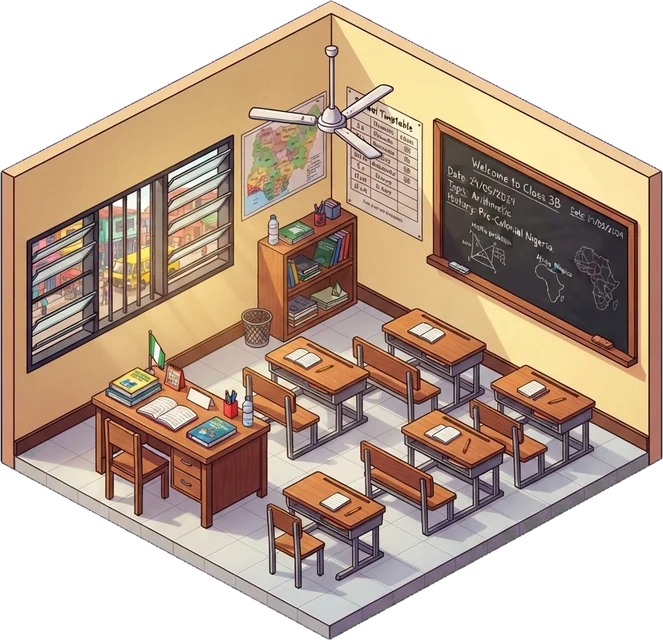
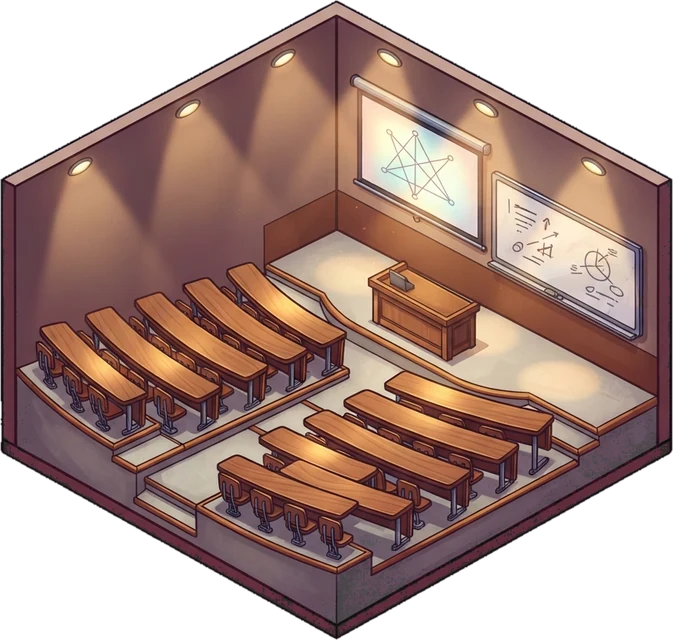
feat(art): Stitch zip 17 - car back views (cars face the way they drive), the university building and lecture theatre, Balogun market aisle interior; plus cafeteria, campus quad, market stalls, gadget market and a load carrier for later
Also docs/market-research-2026-10-13.md (Hermes's first feasibility and go-to-market report).

diff --git a/apps/web/src/components/rooms.ts b/apps/web/src/components/rooms.ts
@@ -225,18 +225,31 @@ export const ROOMS: Record<string, Room> = {
       { action: "sit_talk", at: [0.8, 0.66], dir: "sw", variant: "schoolgirl" },
     ],
   },
-  // Lagoon City University's lecture hall (the classroom picture until the campus art comes): a lecturer at the
-  // board, students at the desks, and a seat for you.
+  // Lagoon City University's lecture theatre: the lecturer behind the desk under the screens, students on the
+  // tiered benches either side of the aisle, and a seat for you on the left bank.
   "lecture-hall": {
-    walkway: [],
+    walkway: [[0.22, 0.72], [0.34, 0.66], [0.46, 0.6], [0.52, 0.56]],
     walkers: 0,
     stations: [
-      { action: "stand_idle", at: [0.62, 0.46], dir: "se", variant: "man_kaftan" },
-      { action: "sit_talk", at: [0.52, 0.7], dir: "se", variant: "woman-tee_blue" },
-      { action: "sit_talk", at: [0.68, 0.78], dir: "sw", variant: "man-hoodie_black" },
-      { action: "sit_talk", at: [0.8, 0.66], dir: "sw", variant: "woman-ankara_green" },
+      { action: "stand_idle", at: [0.74, 0.47], dir: "sw", variant: "man_kaftan" },
+      { action: "sit_talk", at: [0.16, 0.6], dir: "se", variant: "woman-tee_blue" },
+      { action: "sit_talk", at: [0.42, 0.57], dir: "se", variant: "man-hoodie_black" },
+      { action: "sit_talk", at: [0.48, 0.8], dir: "se", variant: "woman-ankara_green" },
+      { action: "sit_talk", at: [0.7, 0.68], dir: "sw", variant: "man-jersey_red" },
     ],
-    spots: { door: { at: [0.3, 0.8], dir: "se" }, sit: { at: [0.42, 0.62], dir: "se" }, stand: { at: [0.36, 0.72], dir: "se" } },
+    spots: { door: { at: [0.22, 0.72], dir: "se" }, sit: { at: [0.27, 0.56], dir: "se" }, stand: { at: [0.46, 0.6], dir: "se" } },
+  },
+  // Balogun market: a narrow aisle between fabric, shoe and household stalls, traders at their stalls and
+  // shoppers squeezing through.
+  "market-aisle": {
+    walkway: [[0.5, 0.88], [0.48, 0.76], [0.5, 0.64], [0.52, 0.52]],
+    walkers: 2,
+    stations: [
+      { action: "stand_idle", at: [0.36, 0.64], dir: "se", variant: "woman_gele" },
+      { action: "stand_idle", at: [0.6, 0.56], dir: "sw", variant: "man_kaftan" },
+      { action: "stand_idle", at: [0.44, 0.5], dir: "se", variant: "woman-buba_wrapper" },
+    ],
+    spots: { door: { at: [0.5, 0.88], dir: "se" }, stand: { at: [0.47, 0.72], dir: "sw" } },
   },
   "hotel-lobby": {
     walkway: [[0.25, 0.72], [0.35, 0.8], [0.5, 0.86], [0.62, 0.8], [0.66, 0.73]],

diff --git a/apps/web/src/components/artSizes.ts b/apps/web/src/components/artSizes.ts
@@ -9,6 +9,7 @@ export const ART_SIZE: Record<string, [number, number]> = {
   "/art/buildings/buka.webp": [678, 640],
   "/art/buildings/bungalow.webp": [773, 640],
   "/art/buildings/bus-terminal.webp": [962, 640],
+  "/art/buildings/campus-quad.webp": [741, 640],
   "/art/buildings/car-showroom.webp": [796, 640],
   "/art/buildings/chemist.webp": [716, 640],
   "/art/buildings/church.webp": [696, 640],
@@ -37,6 +38,7 @@ export const ART_SIZE: Record<string, [number, number]> = {
   "/art/buildings/library.webp": [699, 640],
   "/art/buildings/mall.webp": [723, 640],
   "/art/buildings/market-hall.webp": [800, 640],
+  "/art/buildings/market-stalls.webp": [860, 640],
   "/art/buildings/mechanic.webp": [741, 640],
   "/art/buildings/mixed-use-block.webp": [701, 640],
   "/art/buildings/mosque.webp": [515, 640],
@@ -61,6 +63,7 @@ export const ART_SIZE: Record<string, [number, number]> = {
   "/art/buildings/tech-hub.webp": [638, 640],
   "/art/buildings/terrace-duplex.webp": [776, 640],
   "/art/buildings/unfinished-building.webp": [644, 640],
+  "/art/buildings/university.webp": [732, 640],
   "/art/buildings/viewing-centre.webp": [678, 640],
   "/art/buildings/villa.webp": [821, 640],
   "/art/buildings/warehouse.webp": [828, 640],
@@ -87,11 +90,16 @@ export const ART_SIZE: Record<string, [number, number]> = {
   "/art/props/tugboat.webp": [799, 640],
   "/art/props/vulcanizer.webp": [860, 640],
   "/art/props/water-tank.webp": [396, 640],
+  "/art/life/alabaru.webp": [270, 640],
   "/art/life/brt-ne.webp": [432, 353],
   "/art/life/brt-sw.webp": [433, 358],
+  "/art/life/car-saloon-ne.webp": [854, 526],
   "/art/life/car-saloon.webp": [923, 523],
+  "/art/life/car-suv-black-ne.webp": [752, 518],
   "/art/life/car-suv-black.webp": [749, 568],
+  "/art/life/car-suv-white-ne.webp": [795, 562],
   "/art/life/car-suv-white.webp": [792, 599],
+  "/art/life/car-taxi-ne.webp": [780, 496],
   "/art/life/car-taxi.webp": [852, 539],
   "/art/life/danfo-nw.webp": [275, 240],
   "/art/life/danfo-se.webp": [275, 240],

diff --git a/apps/web/src/components/StreetLife.tsx b/apps/web/src/components/StreetLife.tsx
@@ -17,17 +17,17 @@ const V = (name: string, w: number, mirror = false): View => {
 };
 /**
  * Each vehicle's views by heading. Danfos, BRT buses, okadas and kekes have front and back art, so they can go
- * any way (round the roundabout too); cars only have front views, so they only drive down the screen.
+ * any way (round the roundabout too); cars have front and back views too (the back views came later, batch 51).
  */
 const KINDS: Record<string, Partial<Record<WalkDir, View>>> = {
   danfo: { se: V("danfo-se", 104), sw: V("danfo-se", 104, true), nw: V("danfo-nw", 104), ne: V("danfo-nw", 104, true) },
   okada: { se: V("okada-se", 49), sw: V("okada-sw", 50), ne: V("okada-ne", 50), nw: V("okada-ne", 50, true) },
   keke: { se: V("keke-se", 57), sw: V("keke-sw", 57), ne: V("keke-ne", 58), nw: V("keke-ne", 58, true) },
   brt: { sw: V("brt-sw", 176), se: V("brt-sw", 176, true), ne: V("brt-ne", 176), nw: V("brt-ne", 176, true) },
-  taxi: { sw: V("car-taxi", 98), se: V("car-taxi", 98, true) },
-  saloon: { sw: V("car-saloon", 100), se: V("car-saloon", 100, true) },
-  suvBlack: { sw: V("car-suv-black", 94), se: V("car-suv-black", 94, true) },
-  suvWhite: { sw: V("car-suv-white", 96), se: V("car-suv-white", 96, true) },
+  taxi: { sw: V("car-taxi", 98), se: V("car-taxi", 98, true), ne: V("car-taxi-ne", 98), nw: V("car-taxi-ne", 98, true) },
+  saloon: { sw: V("car-saloon", 100), se: V("car-saloon", 100, true), ne: V("car-saloon-ne", 100), nw: V("car-saloon-ne", 100, true) },
+  suvBlack: { sw: V("car-suv-black", 94), se: V("car-suv-black", 94, true), ne: V("car-suv-black-ne", 94), nw: V("car-suv-black-ne", 94, true) },
+  suvWhite: { sw: V("car-suv-white", 96), se: V("car-suv-white", 96, true), ne: V("car-suv-white-ne", 96), nw: V("car-suv-white-ne", 96, true) },
 };
 /** A vehicle's art for a heading (the player's ride uses the same views as traffic). */
 export function vehicleView(kind: string, dir: WalkDir): View {

diff --git a/apps/web/src/components/cityLayout.ts b/apps/web/src/components/cityLayout.ts
@@ -542,6 +542,7 @@ const BIG: Record<string, number> = {
   hospital: 1.3,
   "high-court": 1.2,
   library: 1.15,
+  university: 1.3,
   // Small things
   atm: 0.75,
   "kiosk-container": 0.7,
@@ -689,7 +690,7 @@ const VENUE_ART: Record<string, string> = {
   high_court: "high-court",
   balogun_market: "market-hall",
   city_library: "library",
-  lagoon_city_university: "colonial-block",
+  lagoon_city_university: "university",
   city_fm: "radio-station",
   general_hospital: "hospital",
   lampnet_academy: "school",
@@ -1178,7 +1179,7 @@ export const ART_ASPECT: Record<string, number> = {
   hospital: 0.89, hotel: 1, "laptop-shop": 0.89, library: 0.92, mall: 0.89, "market-hall": 0.8, mechanic: 0.86, "mixed-use-block": 0.91, mosque: 1.24,
   "motor-park": 0.72, "office-tower": 1.23, "phone-shop": 0.96, "police-station": 0.9, "polytechnic-gate": 0.84, "radio-station": 1.33,
   "residential-block": 0.88, "residential-tower": 1.06, "restaurant-terrace": 0.88, salon: 1.11, school: 0.79, "shop-house": 0.99, "skyline-lounge": 0.83,
-  snooker: 0.89, stadium: 0.75, "storey-house": 1.21, "suya-stand": 1.02, "tailor-shop": 0.98, "tech-hub": 1, "terrace-duplex": 0.82,
+  snooker: 0.89, stadium: 0.75, "storey-house": 1.21, "suya-stand": 1.02, "tailor-shop": 0.98, "tech-hub": 1, "terrace-duplex": 0.82, university: 0.87, "campus-quad": 0.86, "market-stalls": 0.74,
   "unfinished-building": 0.99, "viewing-centre": 0.94, villa: 0.78, warehouse: 0.77,
 };
 export type Pt = [number, number];

diff --git a/packages/shared/src/venues.ts b/packages/shared/src/venues.ts
@@ -337,7 +337,7 @@ export const VENUES: readonly Venue[] = [
     area: "Marina Wharf",
     icon: "🛍",
     art: "/art/buildings/market-hall.webp",
-    interior: "/art/interiors/provision-shop.webp",
+    interior: "/art/interiors/market-aisle.webp",
     blurb: "Lagos's biggest market: fabric, phones, provisions, everything. Haggle hard, buy wholesale, sell it in your shop.",
     regulars: ["Iya Oloja the market queen", "Chinedu the phone dealer"],
     activities: [
@@ -365,7 +365,7 @@ export const VENUES: readonly Venue[] = [
     name: "Lagoon City University",
     area: "Tech Mile",
     icon: "🏛",
-    art: "/art/buildings/colonial-block.webp",
+    art: "/art/buildings/university.webp",
     interior: "/art/interiors/lecture-hall.webp",
     blurb: "Big campus, bigger dreams. Enrol in a degree, go to lectures, write your exams and graduate in front of the whole family.",
     regulars: ["Prof. Adebayo-Okafor", "Course rep Tolu"],

diff --git a/docs/market-research-2026-10-13.md b/docs/market-research-2026-10-13.md
@@ -1,0 +1,141 @@
+# Market research and go-to-market (Hermes, 2026-10-13)
+
+Written by Hermes (the homelab agent) from the hustle-city skill's research playbook. Figures marked as guesses are guesses; check sources before quoting.
+
+HUSTLE CITY — FULL REPORT (deliverable to be saved as Google Doc: "Hustle City - Market & GTM - 2026-10-13")
+Executive verdict (short)
+- Recommendation: Pursue with changes — early win potential if we prioritise merchant value (measurable redemptions) and a PWA-first, campus-seeding GTM. Network effects are the main barrier (Lagos Life is a direct network competitor), so focus on merchant-driven offline→online loops and tight campus communities to build initial clusters.
+
+1) Market (summary + key numbers)
+- Nigeria: population ≈ 216M (World Bank). Internet users ≈ 128M (~59%); smartphone users ≈ 110M (~51%). Many devices are low-end Androids. Lagos city population ≈ 15M (city/metro definitions vary).
+- Target cohort (16–35): estimate ~36% of population. Estimated active mobile gamers (16–35) in Nigeria ≈ 15.6M (216M * 0.36 * 20% gamers) — behavioural estimate (low–medium confidence). Lagos 16–35 mobile gamers estimate ≈ 1.2M.
+- Data & devices: Android-dominant (~85%+); low-end Androids common. Typical monthly mobile data spend (active users): ~$2–$8 (high variance).
+- Browser vs native: PWA-first is viable and recommended to avoid install friction on low-end devices; Android wrapped APK later if needed.
+Confidence: high on population; medium on internet/smartphone; low–medium on gamer counts and data-cost ranges.
+
+Key numbers (CSV)
+metric,value
+population,216000000
+internet_users,128000000
+smartphone_users,110000000
+estimated_gamers_16-35,15600000
+lagos_population,15000000
+
+Sources (primary)
+1. DataReportal — Digital 2024 Nigeria: https://datareportal.com/reports/digital-2024-nigeria
+2. GSMA Mobile Economy (Sub-Saharan Africa): https://www.gsma.com/mobileeconomy/sub-saharan-africa/
+3. Statista — Nigeria smartphone users: https://www.statista.com/statistics/1124811/nigeria-smartphone-users-share/
+4. World Bank — Nigeria: https://data.worldbank.org/country/nigeria
+5. Lagos state overview: https://lagosstate.gov.ng/about-lagos/
+
+2) Competitors & analogues (Lagos Life + patterns)
+- Lagos Life: culturally-rooted Lagos life-sim with rapid adoption via social/press; main moat = network effects. Monetisation paths reported: cosmetics, sponsored locations and business listings (early-stage). Risk: if users' friends are on Lagos Life, switching is hard.
+- Global analogues: Habbo, Avakin Life, Second Life, Pokémon GO — common playbook: strong avatar/customisation + cosmetics, player housing/rooms, sponsored real-world locations where footfall can be measured, and social events drive retention.
+- African context: successful regional games combine local culture, low-friction access (web/PWA), and social shareability; payments and merchant behaviour shape monetisation.
+Key learnings to adopt:
+- Make merchant value explicit (track clicks → WhatsApp taps → redemptions).
+- PWA-first experience; low friction merchant onboarding (WhatsApp-based).
+- Monetise using both cosmetics/property and merchant sponsorships/promoted placements.
+Sources (examples): press on Lagos Life, Habbo/Avakin analyses, Pokémon GO locative ads studies (detailed source list at the end).
+
+3) Will Lagos SMEs pay? Pricing & pilot
+Conclusion: Yes — if expected cost is small and ROI is clear. Most micro vendors are price-sensitive; salons and established stalls accept higher spend when outcomes are trackable.
+
+Pilot segments (priority): Salons/barbers, bukas (small eateries), market stalls, campus vendors.
+
+Recommended pricing matrix (CSV)
+segment,offer,price_NGN_per_month,expected_merchant_conversion_rate,guess_flag
+Salons,Listing only,2,000,8%,guess
+Salons,Listing + 1 featured promo,10,000,12%,guess
+Salons,Premium (top placement + analytics),25,000,4%,guess
+Bukas (small eateries),Listing only,1,000,10%,guess
+Bukas,Listing + 1 promo credit,5,000,15%,guess
+Market stalls,Listing only,500,15%,guess
+Market stalls,Listing + local boost,3,000,8%,guess
+Campus vendors,Listing only,500,12%,guess
+Campus vendors,Promo bundle (3 boosts),3,000,18%,guess
+All segments,Pay-per-lead,per-lead 100–300,conversion depends on quality,guess
+
+Operational notes:
+- Offer free listing + paid boosts; accept mobile-money/USSD/bank transfer; use WhatsApp onboarding and small pilot credits.
+- Measurement: coupon codes + merchant dashboard (even a shared Google Sheet) to show real redemptions.
+
+Sources: PwC MSME survey (Nigeria), local marketing articles and MSME reports (full sources list at the end).
+
+4) GTM — First 1,000 players (30/60/90, tiny budget)
+Goal: 1,000 cumulative players in 13 weeks, budget ≤ $300; PWA-first, campus ambassadors + merchant coupons.
+
+Top-level plan (highlights)
+- Weeks 1–4 (seed): recruit 10 student ambassadors; host 2 play-nights/week; outreach to 50 merchants for free pilot coupons.
+- Weeks 5–8 (scale): expand ambassadors, onboard 10 pilot merchants with redeemable coupons, run weekly online tournaments.
+- Weeks 9–13 (convert & optimise): double down on top channels, merchant-driven challenges, aim for W1 retention ≥25%, CAC target ≤ $0.30/user (budget/1,000).
+
+Referral mechanics:
+- Invite reward: both get 50 coins; inviter gets 200 coins after invitee completes 3 sessions. Fraud controls: require session completions before releasing bonuses.
+
+Tiny budget breakdown (example)
+- Ambassadors: $120
+- Events: $105
+- Merchant outreach: $45
+- Misc: $30
+Total ≈ $300
+
+Weekly targets CSV (sample rows)
+week,weekly_new,cumulative_players,dau_target,weekly_referrals,merchant_interactions,play_nights,budget_allocated_usd
+1,25,25,3,45,1,2,7.50
+2,30,55,6,54,2,2,9.00
+...
+13,105,1000,180,189,5,0,31.50
+
+Outreach templates (short)
+- WhatsApp merchant: "Hi [Name], I’m [name] from Hustle City. We help Lagos merchants drive footfall with in‑game coupons customers redeem in‑store. Can I share a free pilot coupon set and show how it works in 15 minutes?"
+- Student ambassador CTA: "Join our campus launch team! Earn data, airtime and weekly prizes for top referrers. Tasks: host/assist a play‑night, sign up 5 friends, share one WhatsApp post. Apply: [link]."
+- In-game referral copy: "Invite a friend — you both get 50 coins. When they finish 3 games, you get a 200-coin bonus."
+
+5) Risks & cheapest experiments (prioritised)
+Top risks (impact / likelihood / cheapest experiment)
+- Network effects (High / High): Experiment = campus WhatsApp seeding with 30 student testers. Cost ~$0–$50. Success: viral K-factor ≥ 0.3 or 200 organic invites from 30 seeds.
+- Merchant willingness & payment friction (High / Medium): Experiment = merchant pre-signup landing page + Google Form to measure intent & preferred payment. Cost $0–$20. Success: ≥10% conversion; >30% indicate they'd pay a small monthly fee.
+- Redemption ops friction (High / Medium): Experiment = single-shop in-person redemption pilot with one friendly merchant. Cost $5–$20. Success: successful redemption and reconciliation with <1 failure.
+
+Three cheapest experiments (ranked)
+1. Merchant pre-signup landing page + form (Cost $0–$20).
+2. Campus WhatsApp seeding with 30 testers (Cost $0–$50).
+3. Single-shop in-person redemption pilot (Cost $5–$20).
+
+6) Next 3 actions for this week (practical)
+1. Publish merchant pre-signup landing page + Google Form and drive to 50 local merchants (collect price sensitivity).
+2. Recruit 10 student ambassadors (use the ambassador CTA template) and schedule first 4 play-nights.
+3. Implement referral code logic + in-game messaging so ambassadors can start inviting.
+
+7) Implementation constraints & notes
+- PWA-first to reach low-end Android users; offline caching, small assets, progressive loading.
+- Merchant payments: do not require bank transfer upfront for pilot. Use pay-per-redemption or free pilots to prove ROI.
+- Moderation: run closed tests with community rules and basic reporting before open launch.
+
+Appendix — Sources & evidence (selected)
+- Digital 2024 Nigeria — DataReportal: https://datareportal.com/reports/digital-2024-nigeria
+- GSMA Mobile Economy SSA 2024: https://www.gsma.com/mobileeconomy/sub-saharan-africa/
+- Statista smartphone data for Nigeria: https://www.statista.com/statistics/1124811/nigeria-smartphone-users-share/
+- World Bank Nigeria data: https://data.worldbank.org/country/nigeria
+- Lagos state population page: https://lagosstate.gov.ng/about-lagos/
+- PwC MSME Survey Nigeria 2024 (merchant behaviour): https://www.pwc.com/ng/en/assets/pdf/pwc-msme-survey-report-2024.pdf
+- Lagos Life press & guides (example press): Vanguard coverage (Oct 2026) and Lagos Life site
+- Habbo / Avakin / virtual goods analyses and Pokémon GO locative ad studies (sources collated from industry reports and academic papers — full reference list available if you want the raw URLs)
+
+Memory saved
+- I saved the Hustle City key facts and decisions into memory (Hustle City) so future runs reuse estimates, pilot decisions, pricing models and the GTM plan.
+
+Files & CSVs (ready to save)
+- key_numbers.csv (see Key numbers CSV above)
+- pricing_matrix.csv (see Pricing matrix CSV above)
+- weekly_targets_13weeks.csv (see Weekly targets CSV above)
+- GTM plan (Markdown) — text above
+
+Telegram summary (under 20 lines)
+- Verdict: Pursue with changes — PWA-first, merchant-driven loops + campus seeding.  
+- Top 3 opportunities: 1) Merchant deals → measurable footfall, 2) Campus ambassador clusters for viral seeding, 3) Cosmetics/property monetisation for engaged players.  
+- Top 3 risks: 1) Network effects vs Lagos Life, 2) Merchant payment/onboarding friction, 3) Retention (players must return).  
+- Next 3 actions this week: 1) Publish merchant pre-signup + form (50 merchants), 2) Recruit 10 student ambassadors and schedule play‑nights, 3) Implement referral code + in-game messaging.  
+- Doc link: (Doc creation failed here — I will create and post the Drive link after you enable Google auth or provide credentials).
+
